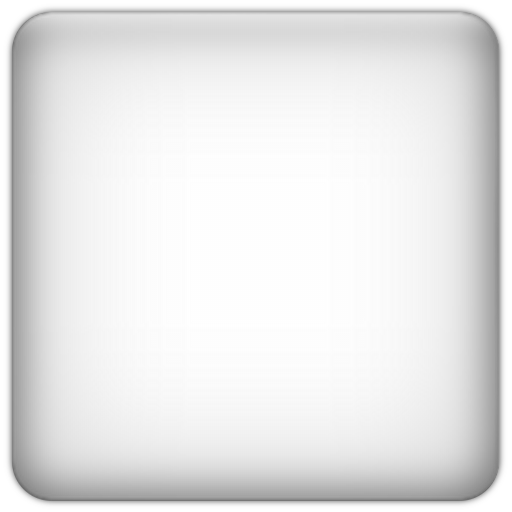
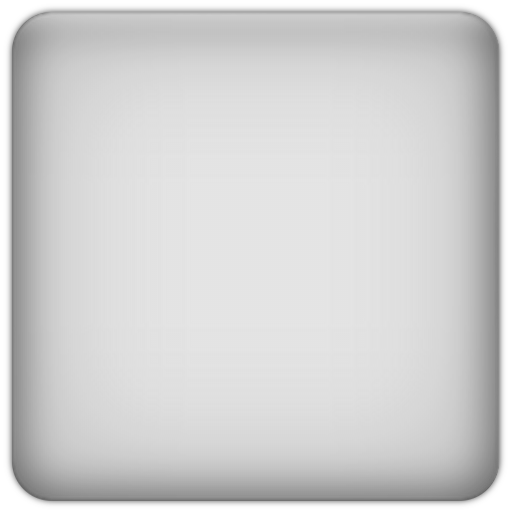
More gui improvements

diff --git a/src/gui/GUI.java b/src/gui/GUI.java
@@ -29,9 +29,15 @@ public class GUI {
 	public GuiPanel guiTools = new GuiPanel(0,0,128,128,ResourceManager.TEXTURE_GUITOOLSBG);
 	public GuiPanel menuButton = new GuiPanel(10, 65, 32, 32, ResourceManager.TEXTURE_GUIMENUBUTTON);
 	
-	public GuiPanel infoBar = new GuiPanel(300,55,700,20,(Color)null);
-	public GuiLabel infoMoney = new GuiLabel(0,0,150,20,(Color)null);
-	public GuiLabel infoCitizens = new GuiLabel(150,0,150,20,(Color)null);
+	public GuiPanel infoBar = new GuiPanel(300,45,700,30,(Color)null);
+	public GuiPanel infoMoneybg = new GuiPanel(0,0,200,30,ResourceManager.TEXTURE_GUILABELBG);
+	public GuiPanel infoMoneybgl = new GuiPanel(-15,0,15,30,ResourceManager.TEXTURE_GUILABELBGL);
+	public GuiPanel infoMoneybgr = new GuiPanel(200,0,15,30,ResourceManager.TEXTURE_GUILABELBGR);
+	public GuiLabel infoMoney = new GuiLabel(0,0,200,30,(Color)null);
+	public GuiPanel infoCitizensbg = new GuiPanel(250,0,200,30,ResourceManager.TEXTURE_GUILABELBG);
+	public GuiPanel infoCitizensbgl = new GuiPanel(-15,0,15,30,ResourceManager.TEXTURE_GUILABELBGL);
+	public GuiPanel infoCitizensbgr = new GuiPanel(200,0,15,30,ResourceManager.TEXTURE_GUILABELBGR);
+	public GuiLabel infoCitizens = new GuiLabel(0,0,200,30,(Color)null);
 	
 	public GuiPanel buildingChooser = new GuiPanel(300,0,700,50, (Color)null);
 	public GuiButton buildingHouse = new GuiButton(0,0,100,40, ResourceManager.TEXTURE_GUIBUTTON2, Color.gray);
@@ -53,13 +59,13 @@ public class GUI {
 	public GuiButton settingsResume = new GuiButton(156, 30, 200, 30, ResourceManager.TEXTURE_GUIBUTTON);
 	public GuiLabel settingsTitle = new GuiLabel(30, 470, 100, 20, (Color)null);
 	public GuiLabel settingsVsync = new GuiLabel(30,440,190,20,(Color)null);
-	public GuiButton settingsVsyncon = new GuiButton(30,410,100,30,ResourceManager.TEXTURE_GUIBUTTON2);
-	public GuiButton settingsVsyncoff = new GuiButton(130,410,100,30,ResourceManager.TEXTURE_GUIBUTTON2);
+	public GuiButton settingsVsyncon = new GuiButton(30,410,100,30,ResourceManager.TEXTURE_GUIBUTTON);
+	public GuiButton settingsVsyncoff = new GuiButton(130,410,100,30,ResourceManager.TEXTURE_GUIBUTTON);
 	public GuiLabel settingsParticles = new GuiLabel(30,380,190,20,(Color)null);
-	public GuiButton settingsParticlesoff = new GuiButton(30,350,100,30,ResourceManager.TEXTURE_GUIBUTTON2);
-	public GuiButton settingsParticleslow = new GuiButton(130,350,100,30,ResourceManager.TEXTURE_GUIBUTTON2);
-	public GuiButton settingsParticlesmiddle = new GuiButton(230,350,100,30,ResourceManager.TEXTURE_GUIBUTTON2);
-	public GuiButton settingsParticleshigh = new GuiButton(330,350,100,30,ResourceManager.TEXTURE_GUIBUTTON2);
+	public GuiButton settingsParticlesoff = new GuiButton(30,350,100,30,ResourceManager.TEXTURE_GUIBUTTON);
+	public GuiButton settingsParticleslow = new GuiButton(130,350,100,30,ResourceManager.TEXTURE_GUIBUTTON);
+	public GuiButton settingsParticlesmiddle = new GuiButton(230,350,100,30,ResourceManager.TEXTURE_GUIBUTTON);
+	public GuiButton settingsParticleshigh = new GuiButton(330,350,100,30,ResourceManager.TEXTURE_GUIBUTTON);
 	
 	List<guiElement> elements = new ArrayList<guiElement>();
 	List<guiElement> menuElements = new ArrayList<guiElement>();
@@ -68,16 +74,16 @@ public class GUI {
 	{
 		
 		if(ResourceManager.getSetting("particlequality").equals("off")){
-			settingsParticlesoff.setTexture(ResourceManager.TEXTURE_GUIBUTTON2DOWN);
+			settingsParticlesoff.setTexture(ResourceManager.TEXTURE_GUIBUTTONDOWN);
 			ParticleEffects.particleQuality = ParticleEffects.PARTICLESOFF;
 		}else if(ResourceManager.getSetting("particlequality").equals("low")){
-			settingsParticleslow.setTexture(ResourceManager.TEXTURE_GUIBUTTON2DOWN);
+			settingsParticleslow.setTexture(ResourceManager.TEXTURE_GUIBUTTONDOWN);
 			ParticleEffects.particleQuality = ParticleEffects.PARTICLESLOW;
 		}else if(ResourceManager.getSetting("particlequality").equals("middle")){
-			settingsParticlesmiddle.setTexture(ResourceManager.TEXTURE_GUIBUTTON2DOWN);
+			settingsParticlesmiddle.setTexture(ResourceManager.TEXTURE_GUIBUTTONDOWN);
 			ParticleEffects.particleQuality = ParticleEffects.PARTICLESMIDDLE;
 		}else if(ResourceManager.getSetting("particlequality").equals("high")){
-			settingsParticleshigh.setTexture(ResourceManager.TEXTURE_GUIBUTTON2DOWN);
+			settingsParticleshigh.setTexture(ResourceManager.TEXTURE_GUIBUTTONDOWN);
 			ParticleEffects.particleQuality = ParticleEffects.PARTICLESHIGH;
 		}
 		
@@ -105,9 +111,15 @@ public class GUI {
 						buildingChooser.add(buildingBighouse);
 											buildingBighouse.setText(ResourceManager.getString(ResourceManager.getBuildingType(ResourceManager.BUILDINGTYPE_BIGHOUSE).getName()));
 			toolBar.add(infoBar);
-						infoBar.add(infoMoney);
+						infoBar.add(infoMoneybg);
+						infoMoneybg.add(infoMoneybgl);
+						infoMoneybg.add(infoMoneybgr);
+						infoMoneybg.add(infoMoney);
 									infoMoney.setText("Geld: 0$");
-						infoBar.add(infoCitizens);
+						infoBar.add(infoCitizensbg);
+						infoCitizensbg.add(infoCitizensbgl);
+						infoCitizensbg.add(infoCitizensbgr);
+						infoCitizensbg.add(infoCitizens);
 									infoCitizens.setText("Einwohner: 0");
 		add(guiTools);
 		guiTools.add(menuButton);
@@ -150,9 +162,9 @@ public class GUI {
 			
 			settingsTitle.setText(ResourceManager.getString("SETTINGSMENU_LABEL_TITLE"));
 			settingsVsyncon.setText(ResourceManager.getString("SETTINGSMENU_BUTTON_VSYNCON"));
-			if (ResourceManager.getSetting("vsync").equals("enabled"))settingsVsyncon.setTexture(ResourceManager.TEXTURE_GUIBUTTON2DOWN);
+			if (ResourceManager.getSetting("vsync").equals("enabled"))settingsVsyncon.setTexture(ResourceManager.TEXTURE_GUIBUTTONDOWN);
 			settingsVsyncoff.setText(ResourceManager.getString("SETTINGSMENU_BUTTON_VSYNCOFF"));
-			if (!ResourceManager.getSetting("vsync").equals("enabled"))settingsVsyncoff.setTexture(ResourceManager.TEXTURE_GUIBUTTON2DOWN);
+			if (!ResourceManager.getSetting("vsync").equals("enabled"))settingsVsyncoff.setTexture(ResourceManager.TEXTURE_GUIBUTTONDOWN);
 			settingsVsync.setText(ResourceManager.getString("SETTINGSMENU_LABEL_VSYNC"));
 			settingsParticles.setText(ResourceManager.getString("SETTINGSMENU_LABEL_PARTICLES"));
 			settingsParticlesoff.setText(ResourceManager.getString("SETTINGSMENU_BUTTON_PARTICLESOFF"));

diff --git a/src/game/Main.java b/src/game/Main.java
@@ -329,8 +329,8 @@ public class Main {
 		}
  		if(guihit==gui.settingsVsyncon){
  			try {
-				gui.settingsVsyncon.setTexture(ResourceManager.TEXTURE_GUIBUTTON2DOWN);
-				gui.settingsVsyncoff.setTexture(ResourceManager.TEXTURE_GUIBUTTON2);
+				gui.settingsVsyncon.setTexture(ResourceManager.TEXTURE_GUIBUTTONDOWN);
+				gui.settingsVsyncoff.setTexture(ResourceManager.TEXTURE_GUIBUTTON);
 				ResourceManager.setSetting("vsync", "enabled");
 			} catch (Exception e) {
 				e.printStackTrace();
@@ -338,8 +338,8 @@ public class Main {
  		}
  		if(guihit==gui.settingsVsyncoff){
  			try {
-	 			gui.settingsVsyncon.setTexture(ResourceManager.TEXTURE_GUIBUTTON2);
-				gui.settingsVsyncoff.setTexture(ResourceManager.TEXTURE_GUIBUTTON2DOWN);
+	 			gui.settingsVsyncon.setTexture(ResourceManager.TEXTURE_GUIBUTTON);
+				gui.settingsVsyncoff.setTexture(ResourceManager.TEXTURE_GUIBUTTONDOWN);
 	 			ResourceManager.setSetting("vsync", "disabled");
 			} catch (Exception e) {
 				e.printStackTrace();
@@ -347,10 +347,10 @@ public class Main {
  		}
  		if(guihit==gui.settingsParticlesoff){
  			try {
-				gui.settingsParticlesoff.setTexture(ResourceManager.TEXTURE_GUIBUTTON2DOWN);
-	 			gui.settingsParticleslow.setTexture(ResourceManager.TEXTURE_GUIBUTTON2);
-	 			gui.settingsParticlesmiddle.setTexture(ResourceManager.TEXTURE_GUIBUTTON2);
-	 			gui.settingsParticleshigh.setTexture(ResourceManager.TEXTURE_GUIBUTTON2);
+				gui.settingsParticlesoff.setTexture(ResourceManager.TEXTURE_GUIBUTTONDOWN);
+	 			gui.settingsParticleslow.setTexture(ResourceManager.TEXTURE_GUIBUTTON);
+	 			gui.settingsParticlesmiddle.setTexture(ResourceManager.TEXTURE_GUIBUTTON);
+	 			gui.settingsParticleshigh.setTexture(ResourceManager.TEXTURE_GUIBUTTON);
 	 			ParticleEffects.particleQuality = ParticleEffects.PARTICLESOFF;
 	 			ResourceManager.setSetting("particlequality", "off");
 			} catch (Exception e) {
@@ -359,10 +359,10 @@ public class Main {
  		}
  		if(guihit==gui.settingsParticleslow){
  			try {
-				gui.settingsParticlesoff.setTexture(ResourceManager.TEXTURE_GUIBUTTON2);
-	 			gui.settingsParticleslow.setTexture(ResourceManager.TEXTURE_GUIBUTTON2DOWN);
-	 			gui.settingsParticlesmiddle.setTexture(ResourceManager.TEXTURE_GUIBUTTON2);
-	 			gui.settingsParticleshigh.setTexture(ResourceManager.TEXTURE_GUIBUTTON2);
+				gui.settingsParticlesoff.setTexture(ResourceManager.TEXTURE_GUIBUTTON);
+	 			gui.settingsParticleslow.setTexture(ResourceManager.TEXTURE_GUIBUTTONDOWN);
+	 			gui.settingsParticlesmiddle.setTexture(ResourceManager.TEXTURE_GUIBUTTON);
+	 			gui.settingsParticleshigh.setTexture(ResourceManager.TEXTURE_GUIBUTTON);
 	 			ParticleEffects.particleQuality = ParticleEffects.PARTICLESLOW;
 	 			ResourceManager.setSetting("particlequality", "low");
 			} catch (Exception e) {
@@ -371,10 +371,10 @@ public class Main {
  		}
  		if(guihit==gui.settingsParticlesmiddle){
  			try {
-				gui.settingsParticlesoff.setTexture(ResourceManager.TEXTURE_GUIBUTTON2);
-	 			gui.settingsParticleslow.setTexture(ResourceManager.TEXTURE_GUIBUTTON2);
-	 			gui.settingsParticlesmiddle.setTexture(ResourceManager.TEXTURE_GUIBUTTON2DOWN);
-	 			gui.settingsParticleshigh.setTexture(ResourceManager.TEXTURE_GUIBUTTON2);
+				gui.settingsParticlesoff.setTexture(ResourceManager.TEXTURE_GUIBUTTON);
+	 			gui.settingsParticleslow.setTexture(ResourceManager.TEXTURE_GUIBUTTON);
+	 			gui.settingsParticlesmiddle.setTexture(ResourceManager.TEXTURE_GUIBUTTONDOWN);
+	 			gui.settingsParticleshigh.setTexture(ResourceManager.TEXTURE_GUIBUTTON);
 	 			ParticleEffects.particleQuality = ParticleEffects.PARTICLESMIDDLE;
 	 			ResourceManager.setSetting("particlequality", "middle");
 			} catch (Exception e) {
@@ -383,10 +383,10 @@ public class Main {
  		}
  		if(guihit==gui.settingsParticleshigh){
  			try {
-				gui.settingsParticlesoff.setTexture(ResourceManager.TEXTURE_GUIBUTTON2);
-	 			gui.settingsParticleslow.setTexture(ResourceManager.TEXTURE_GUIBUTTON2);
-	 			gui.settingsParticlesmiddle.setTexture(ResourceManager.TEXTURE_GUIBUTTON2);
-	 			gui.settingsParticleshigh.setTexture(ResourceManager.TEXTURE_GUIBUTTON2DOWN);
+				gui.settingsParticlesoff.setTexture(ResourceManager.TEXTURE_GUIBUTTON);
+	 			gui.settingsParticleslow.setTexture(ResourceManager.TEXTURE_GUIBUTTON);
+	 			gui.settingsParticlesmiddle.setTexture(ResourceManager.TEXTURE_GUIBUTTON);
+	 			gui.settingsParticleshigh.setTexture(ResourceManager.TEXTURE_GUIBUTTONDOWN);
 	 			ParticleEffects.particleQuality = ParticleEffects.PARTICLESHIGH;
 	 			ResourceManager.setSetting("particlequality", "high");
 			} catch (Exception e) {

diff --git a/src/game/ResourceManager.java b/src/game/ResourceManager.java
@@ -75,9 +75,13 @@ public class ResourceManager {
 	public final static Texture TEXTURE_GUIMENU = addTexture("/res/guimenu.png");
 	public final static Texture TEXTURE_EMPTY = addTexture("/res/empty.png");
 	public final static Texture TEXTURE_GUIBUTTON = addTexture("/res/guibutton.png");
+	public final static Texture TEXTURE_GUIBUTTONDOWN = addTexture("/res/guibuttondown.png");
 	public final static Texture TEXTURE_MAINMENUBG = addTexture("/res/mainmenubg.png");
 	public final static Texture TEXTURE_GUIBUTTON2 = addTexture("/res/guibutton2.png");
 	public final static Texture TEXTURE_GUIBUTTON2DOWN = addTexture("/res/guibutton2down.png");
+	public final static Texture TEXTURE_GUILABELBG = addTexture("/res/guilabelbg.png");
+	public final static Texture TEXTURE_GUILABELBGL = addTexture("/res/guilabelbgl.png");
+	public final static Texture TEXTURE_GUILABELBGR = addTexture("/res/guilabelbgr.png");
 	public final static Texture TEXTURE_MAINMENUFF = addTexture("/res/ForceField.png");
 	public final static Texture TEXTURE_MARSCITYLOGO = addTexture("/res/marscitylogo.png");
 	public final static Texture TEXTURE_BIGHOUSE = addTexture("/res/bighousetexture.png");

diff --git a/src/gui/GuiPanel.java b/src/gui/GuiPanel.java
@@ -7,6 +7,7 @@ import java.util.ArrayList;
 import java.util.List;
 
 import org.lwjgl.input.Mouse;
+import org.lwjgl.opengl.Display;
 import org.newdawn.slick.opengl.Texture;
 
 import static org.lwjgl.opengl.GL11.*;
@@ -211,6 +212,11 @@ public class GuiPanel extends AbstractGuiElement {
 							glBindTexture(GL_TEXTURE_2D, texture.getTextureID());
 						}else glDisable(GL_TEXTURE_2D);
 				glPushMatrix();
+				glMatrixMode(GL_PROJECTION);
+				glPushMatrix();
+				glLoadIdentity();
+				glOrtho(0, Display.getWidth(), 0, Display.getHeight(), 1, -1);
+				glMatrixMode(GL_MODELVIEW);
 					glTranslated(getScreenX(), getScreenY(), 0);
 					glBegin(GL_QUADS);
 						if(color!=null)glColor4ub((byte) color.getRed(), 
